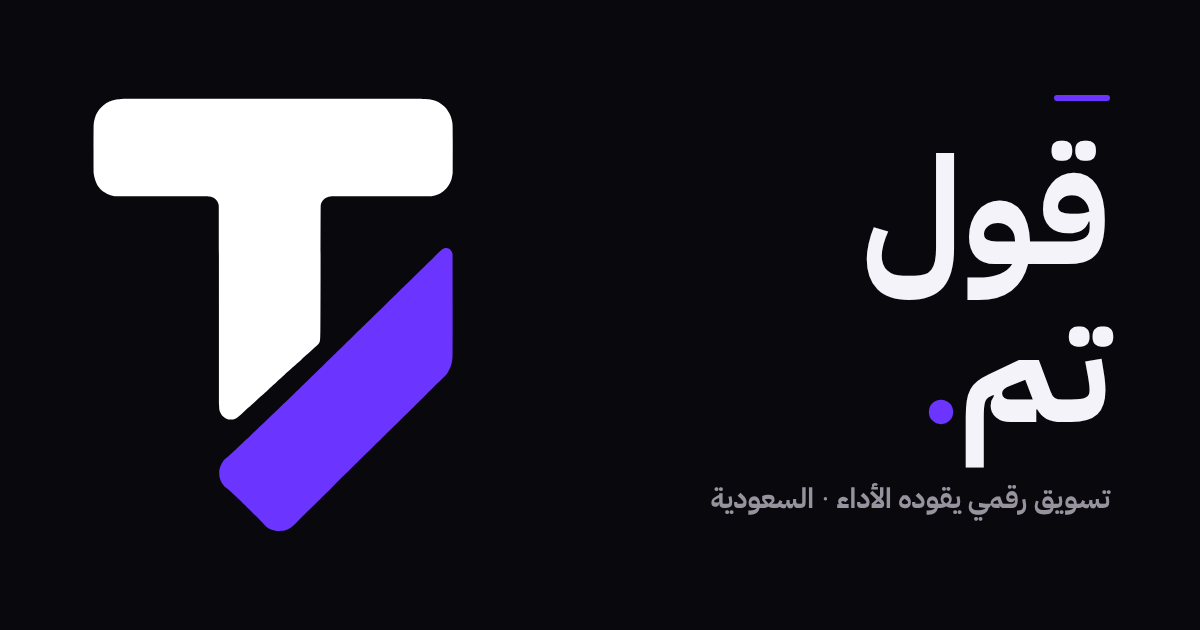
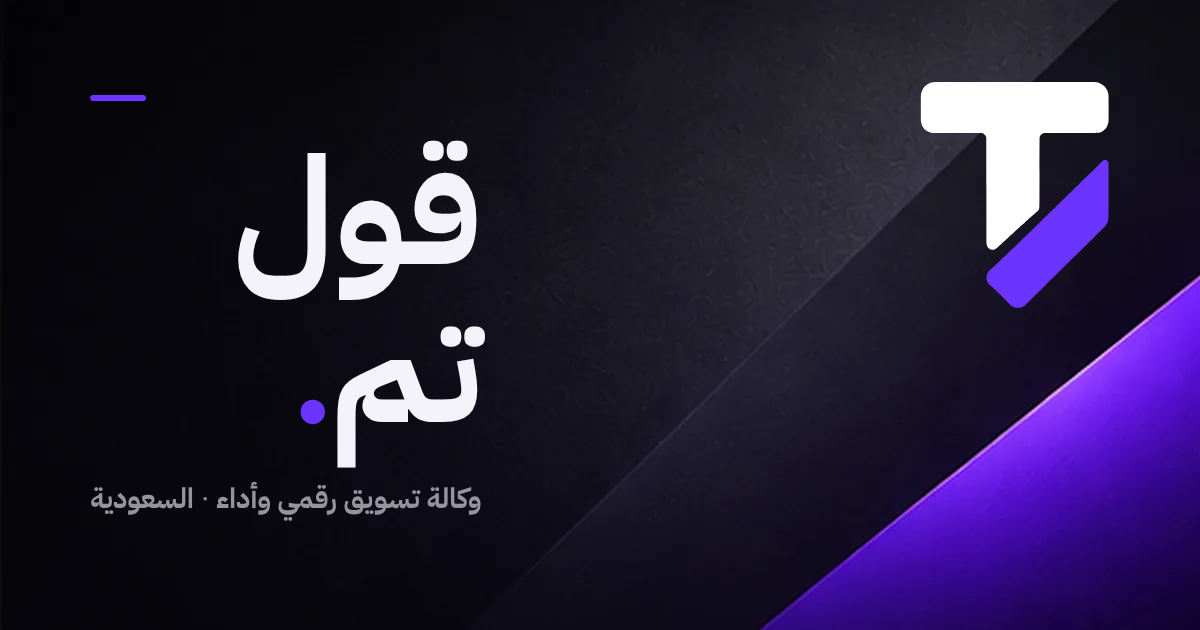
Add illustrative visuals (Services, About, Contact, 404) and new OG images
Owner-supplied AI images, reviewed and trimmed of edge artifacts, used as
decorative imagery only (alt=""), never as case material. OG images rebuilt
on the new background with the official logo and real fonts. Docs: W-020.

Claude-Session: https://claude.ai/code/session_018YgxMLQ24mCK4f4TrHrmEz

diff --git a/docs/DECISION_LOG.md b/docs/DECISION_LOG.md
@@ -42,6 +42,7 @@ Format: ID · date · decision · decided by · rationale · source.
 | W-014 | 2026-11-04 | Real campaign assets used in Selected work: Infinity Corp fashion photography (captioned as the team's fashion e-commerce work, not as the creative behind the metrics) and QNB Ramadan 2015 screenshots. Projects without supplied visuals get data-led compositions, never stock or AI imagery | Brief requires real approved assets; rights D-002 |
 | D-014 | 2026-11-04 | **Final redesign brief (v0.4)**. Homepage: Hero → Selected work → Brands we've worked with → Services (4 disciplines) → How we work → Results → About → Final CTA. Services regrouped into Strategy & Consulting · Creative & Content · Media & Performance · Digital & Technology. Brand list of 12 supplied by the owner as **team professional experience** | Owner (final brief) | Supersedes the D-013 section order and P-010 pillar names; resolves OQ-13 |
 | D-015 | 2026-11-04 | **Owner-supplied company and founder facts:** SayTamm founded **2021**; team of **30**; founder **Mostafa Sofy / مصطفى صوفي**; founder photo; founder biography (15+ years across the Saudi, Egyptian and Gulf markets, 200+ brands, 20+ industries) and the **founding reason**: closing the gap between what a client needs and what the agency delivers, fast communication, and work built on numbers and goals rather than aimless marketing. **No previous employers are named (owner decision)**. Case attribution reworded from "before SayTamm was founded" to "led by members of the SayTamm team, including work delivered at other agencies", because the e-commerce cases (2021–22) postdate the founding year | Owner | Resolves most of OQ-40. Resolves OQ-33 for the bio. The current role at another agency (OQ-38) and the "double-digit ROAS" claim (OQ-51) are also left out |
+| W-020 | 2026-11-04 | **AI-generated illustrative imagery** (supplied by the owner, made from `docs/AI_VISUAL_PROMPTS.md`) used for decoration only: 4 service-discipline images, About atmosphere, Contact and 404 textures, and the Open Graph background. Marked decorative (`alt=""`), never placed next to case results. The OG images composite the background with the **official logo SVG and real fonts** (`scripts/make-og-images.cjs`). Masters in `brand/visuals-ai/` | The site gains depth without fabricated proof. Case material, client logos and team photos stay real-only |
 | W-016 | 2026-11-04 | Hero CSS 3D "sculpture" **removed**; the hero uses the exact flat Signature symbol, with an entrance motion only (the blade travels in along its own 45° diagonal to its exact resting position) | Final brief: no artificial 3D effect unless an approved official 3D asset exists |
 | W-017 | 2026-11-04 | Every case carries `evidence.status`. **Pending figures appear in staging only** (tagged "Pending confirmation"); the production build withholds them and says so, until each case is approved | Final brief: unverified figures must be marked for confirmation or omitted from the published version |
 | W-018 | 2026-11-04 | Brand wall shows names as text, in Latin script in both languages, with a sector label and an explicit "professional experience, not SayTamm clients" note. Official logo files slot in when supplied with permission (OQ-39). No logo was sourced from third-party sites | Logo accuracy (current official versions) and permission to display can't be verified from mirrors; never redraw a client logo |

diff --git a/docs/SPRINT_2_REPORT.md b/docs/SPRINT_2_REPORT.md
@@ -17,6 +17,7 @@ Date: 2026-11-04 · Branch `claude/saytamm-brand-strategy-d2shzo` · Base: v0.4 
 | `site/src/pages/[lang]/work/index.astro` | Unknown market/period omitted |
 | `site/src/pages/[lang]/about.astro` | Placeholders removed. Leadership shows the **founder photo supplied by the owner** (unedited, square), name and role; AboutPage JSON-LD with the founder |
 | `site/public/team/mostafa-sofy.webp`, `brand/people/Mostafa_Sofy_Founder_original.webp` (new) | Founder portrait: a 900 px web version and the original 1254 px file |
+| Illustrative visuals (W-020) | 9 owner-supplied AI images reviewed (no text, logos, faces, or fake ads or charts) and trimmed of edge artifacts. Placed on Services (one per discipline), About (atmosphere band), Contact and 404 (low-opacity textures, legibility checked). Decorative `alt=""`, lazy-loaded, 1200/2400 px `srcset`. OG images rebuilt on the new background with the official logo and real fonts; tagline updated to the current positioning |
 | Founder bio and company facts (D-015) | The owner's bio was edited into a first-person, 3-paragraph site bio (EN + AR) with an expertise list; Arabic name «مصطفى صوفي». About facts are now 2021 founded · 30 people · 15+ years · 5 markets. Case attribution was reworded: the e-commerce cases (2021–22) postdate the 2021 founding, so "before SayTamm was founded" became "led by members of the SayTamm team, including work delivered at other agencies". The About story now states the owner's founding reason (closing the client–agency gap, fast communication, goal- and number-driven work). **Left out on purpose:** all employer names (owner decision, OQ-33), the current Managing Director role at Steps (OQ-38) and "double-digit ROAS" (OQ-51) |
 | `site/src/pages/404.astro` | Numeral contrast fixed |
 | `site/src/components/work/CaseMedia.astro` | Case-page gallery (portrait triptych + landscape pair). A new **editorial panel** (channels, sector, market, services: verified facts only) for projects without visuals once figures are withheld. RTL alignment fixed |

diff --git a/PROJECT_HANDOVER.md b/PROJECT_HANDOVER.md
@@ -162,7 +162,8 @@ Every page is generated for both locales via `getStaticPaths` (`staticLangPaths(
 | Logo used by the site | `src/assets/logo/symbol.svg` (read by `lib/logo.ts` → `components/Logo.astro`, `Pattern.astro`) and `public/brand/*` (favicons, JSON-LD logo) |
 | Portfolio images | `public/work/*.webp` (referenced from `cases.ts`) |
 | Founder photo | `public/team/mostafa-sofy.webp` (900 px, used on About); original in `brand/people/` |
-| OG images | `public/og/saytamm-og-{en,ar}.png` |
+| OG images | `public/og/saytamm-og-{en,ar}.png`, rebuilt by `scripts/make-og-images.cjs` from `public/visuals/og-bg-en.webp` + the official logo SVG + brand fonts |
+| Illustrative visuals (AI-generated, decorative only) | `public/visuals/*.webp`; masters in `brand/visuals-ai/`. Never use them as case or client material (`docs/AI_VISUAL_PROMPTS.md`) |
 | Fonts | `public/fonts/satoshi/` (Satoshi); `@fontsource/ibm-plex-sans-arabic` via npm (Arabic) |
 | Full logo set and brand originals | `/brand` (see `brand/SOURCES.md` and `brand/production/logo/README.md`) |
 

diff --git a/docs/AI_VISUAL_PROMPTS.md b/docs/AI_VISUAL_PROMPTS.md
@@ -1,5 +1,7 @@
 # AI visual prompts for the SayTamm website
 
+> **Status (2026-11-04): all 9 received and placed** (W-020). Masters are in `brand/visuals-ai/`; web versions in `site/public/visuals/`, trimmed 24 px per edge (more on Contact and 404) to remove generation edge lines. `services-creative` uses about 15% purple, above the 10% guideline, and is accepted. `og-bg-ar` is not used: both OG images share `og-bg-en`, because the brand diagonal is never mirrored.
+
 For generating supporting visuals with an image model (for example ChatGPT image generation). Date: 2026-11-04.
 
 ## 1. What may and may not be generated
